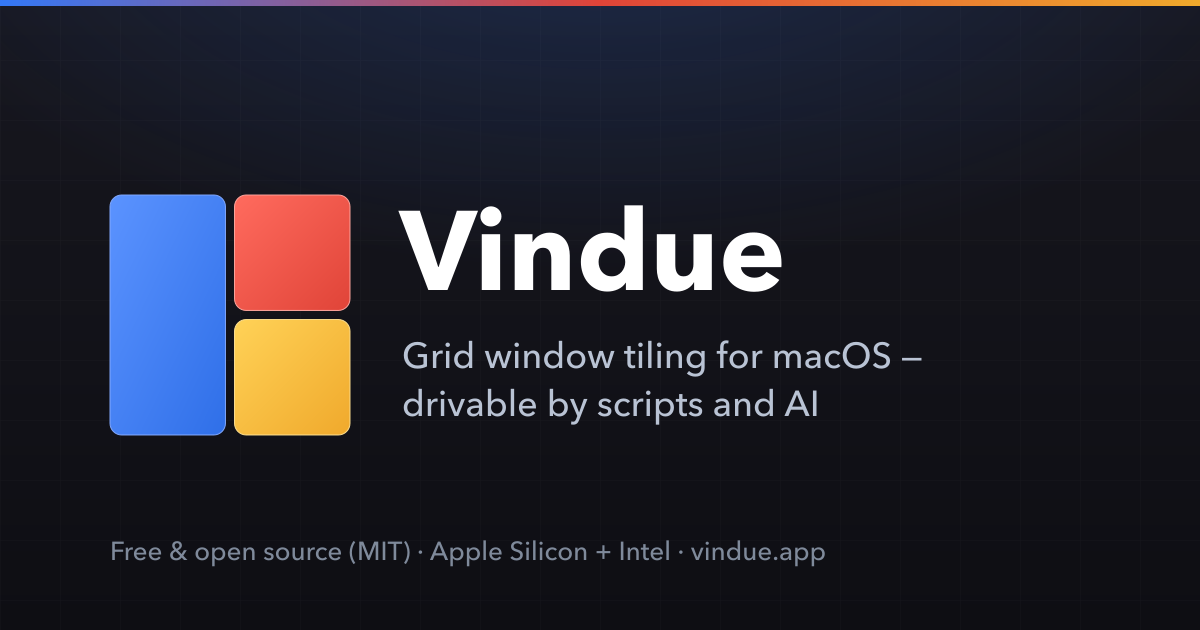
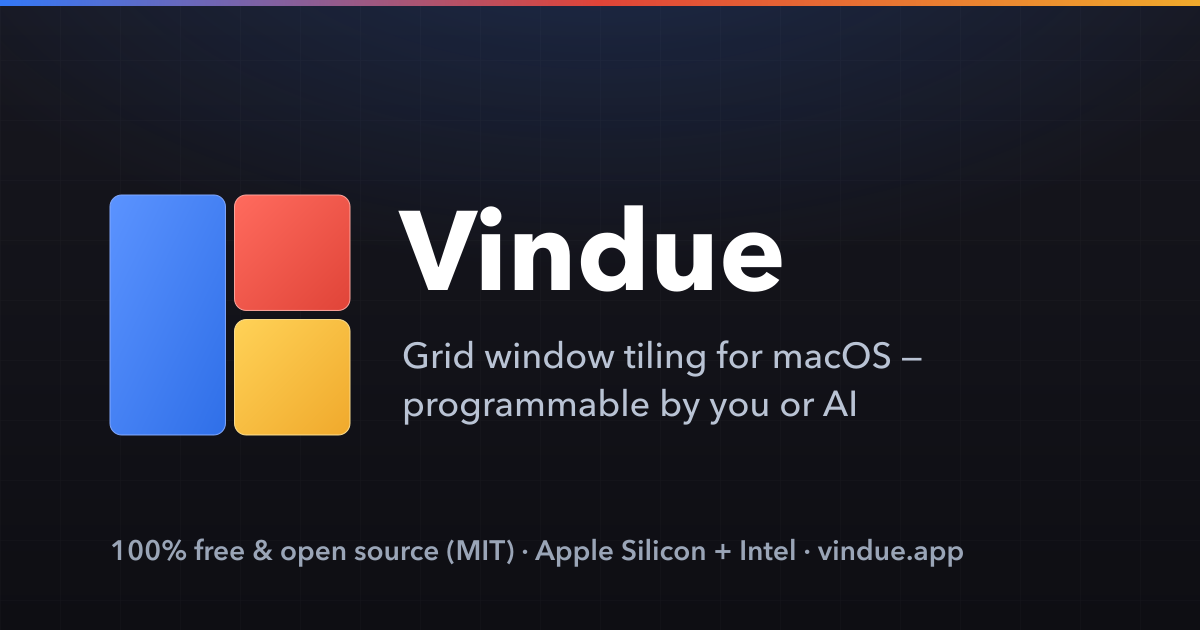
Lean into FREE; simplify tagline to 'programmable by you or AI'
Free/open-source now leads in the main spots: site tagline (hero subtitle,
og:description, search snippets), homepage meta description, README tagline,
intro first line + frontmatter description, OG card (brighter '100% free'
footer line), and the GitHub repo description. Tagline phrasing simplified
from 'drivable by scripts and AI' to 'programmable by you or AI' everywhere;
hero note trimmed to avoid saying free twice.

Changed region(s): [[0.0925, 0.8444, 0.8017, 0.9048], [0.3392, 0.6032, 0.7092, 0.6937]]

diff --git a/website/src/pages/index.tsx b/website/src/pages/index.tsx
@@ -26,8 +26,8 @@ function HomepageHeader() {
           </Link>
         </div>
         <p className={styles.heroNote}>
-          Free &amp; open source (MIT) · Apple Silicon + Intel · menu-bar app,
-          no Dock icon · no telemetry, everything stays local
+          Apple Silicon + Intel · menu-bar app, no Dock icon · no telemetry,
+          everything stays local
         </p>
         <img
           className={styles.heroDemo}
@@ -96,7 +96,7 @@ export default function Home(): React.ReactNode {
   return (
     <Layout
       title="Grid window tiling for macOS"
-      description="Vindue is an open-source grid window tiler for macOS with a built-in HTTP API and MCP server, so scripts and AI clients can drive window management.">
+      description="Vindue is a free, open-source grid window tiler for macOS with a built-in HTTP API and MCP server, so scripts and AI clients can drive window management.">
       <HomepageHeader />
       <main>
         <HomepageFeatures />

diff --git a/website/docusaurus.config.ts b/website/docusaurus.config.ts
@@ -4,7 +4,7 @@ import type * as Preset from '@docusaurus/preset-classic';
 
 const config: Config = {
   title: 'Vindue',
-  tagline: 'Grid window tiling for macOS — drivable by scripts and AI',
+  tagline: 'Grid window tiling for macOS — free, open source, programmable by you or AI',
   favicon: 'img/favicon.png',
 
   future: {

diff --git a/README.md b/README.md
@@ -4,7 +4,7 @@
 
 # Vindue
 
-**Grid window tiling for macOS — the Divvy drag-a-grid interaction, drivable by scripts and AI.**
+**Free, open-source grid window tiling for macOS — the Divvy drag-a-grid interaction, programmable by you or AI.**
 
 [![CI](https://github.com/msukmanowsky/vindue/actions/workflows/ci.yml/badge.svg)](https://github.com/msukmanowsky/vindue/actions/workflows/ci.yml)
 [![License: MIT](https://img.shields.io/badge/License-MIT-blue.svg)](LICENSE)
@@ -43,7 +43,7 @@ target live, and the header retargets another app without dismissing.
   identical twins); display-bound shortcuts → [docs](https://vindue.app/docs/guide/multi-monitor)
 - **Settings** — schema-validated form + raw-JSON views of config.json; grid
   resizes rescale saved shortcuts proportionally → [docs](https://vindue.app/docs/guide/settings)
-- **Scriptable + AI-drivable** — loopback HTTP API and an MCP server on one
+- **Programmable by you or AI** — loopback HTTP API and an MCP server on one
   port (below)
 
 ## Install
